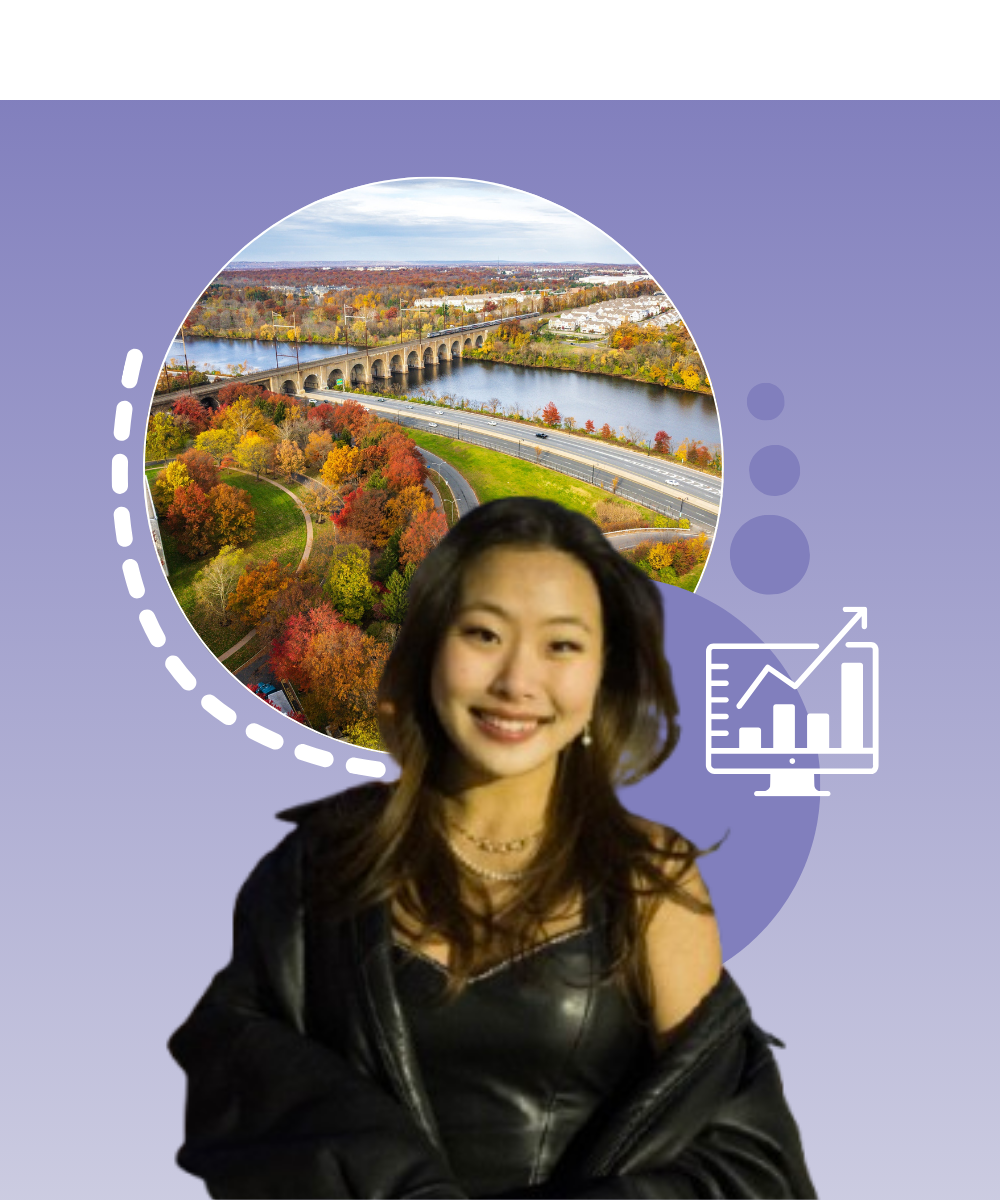
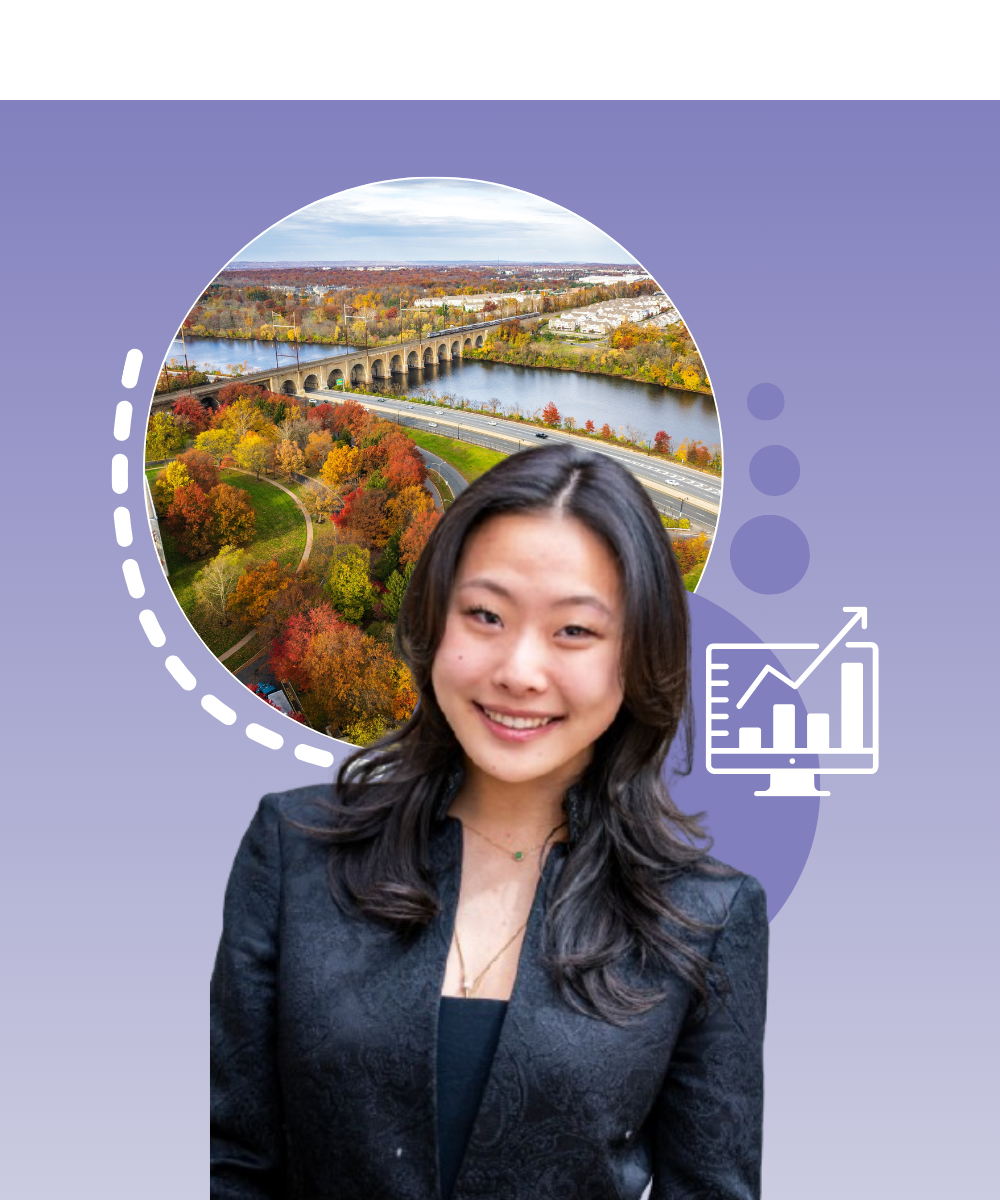
nacha headshot

Changed region(s): [[0.155, 0.37, 0.837, 1.0], [0.31, 0.9558, 0.341, 0.9867]]

diff --git a/src/Components/Team/RosterSection.js b/src/Components/Team/RosterSection.js
@@ -124,6 +124,8 @@ import evelynchao0 from "../../Images/Team/headshots/evelynchao0.png";
 import evelynchao1 from "../../Images/Team/headshots/evelynchao1.png";
 import hojundo0 from "../../Images/Team/headshots/hojundo0.png";
 import hojundo1 from "../../Images/Team/headshots/hojundo1.png";
+import nacharamanathan0 from "../../Images/Team/headshots/nacharamanathan0.png";
+import nacharamanathan1 from "../../Images/Team/headshots/nacharamanathan0.png";
 import oliviaheithoff0 from "../../Images/Team/headshots/oliviaheithoff0.png";
 import oliviaheithoff1 from "../../Images/Team/headshots/oliviaheithoff1.png";
 import zacharyyoonkim0 from "../../Images/Team/headshots/zacharyyoonkim0.png";
@@ -583,7 +585,15 @@ function RosterSection() {
 			ID: 142,
 			url: "https://www.linkedin.com/in/dylan-wang-018047261/",
 		},
-		
+		{
+			name: "Nacha Ramanathan",
+			image0: nacharamanathan0,
+			image1: nacharamanathan1,
+			position: "Analyst",
+			major: "BBA 2028",
+			ID: 143,
+			url: "https://www.linkedin.com/in/nacha-ramanathan/",
+		},
 		
 
 
